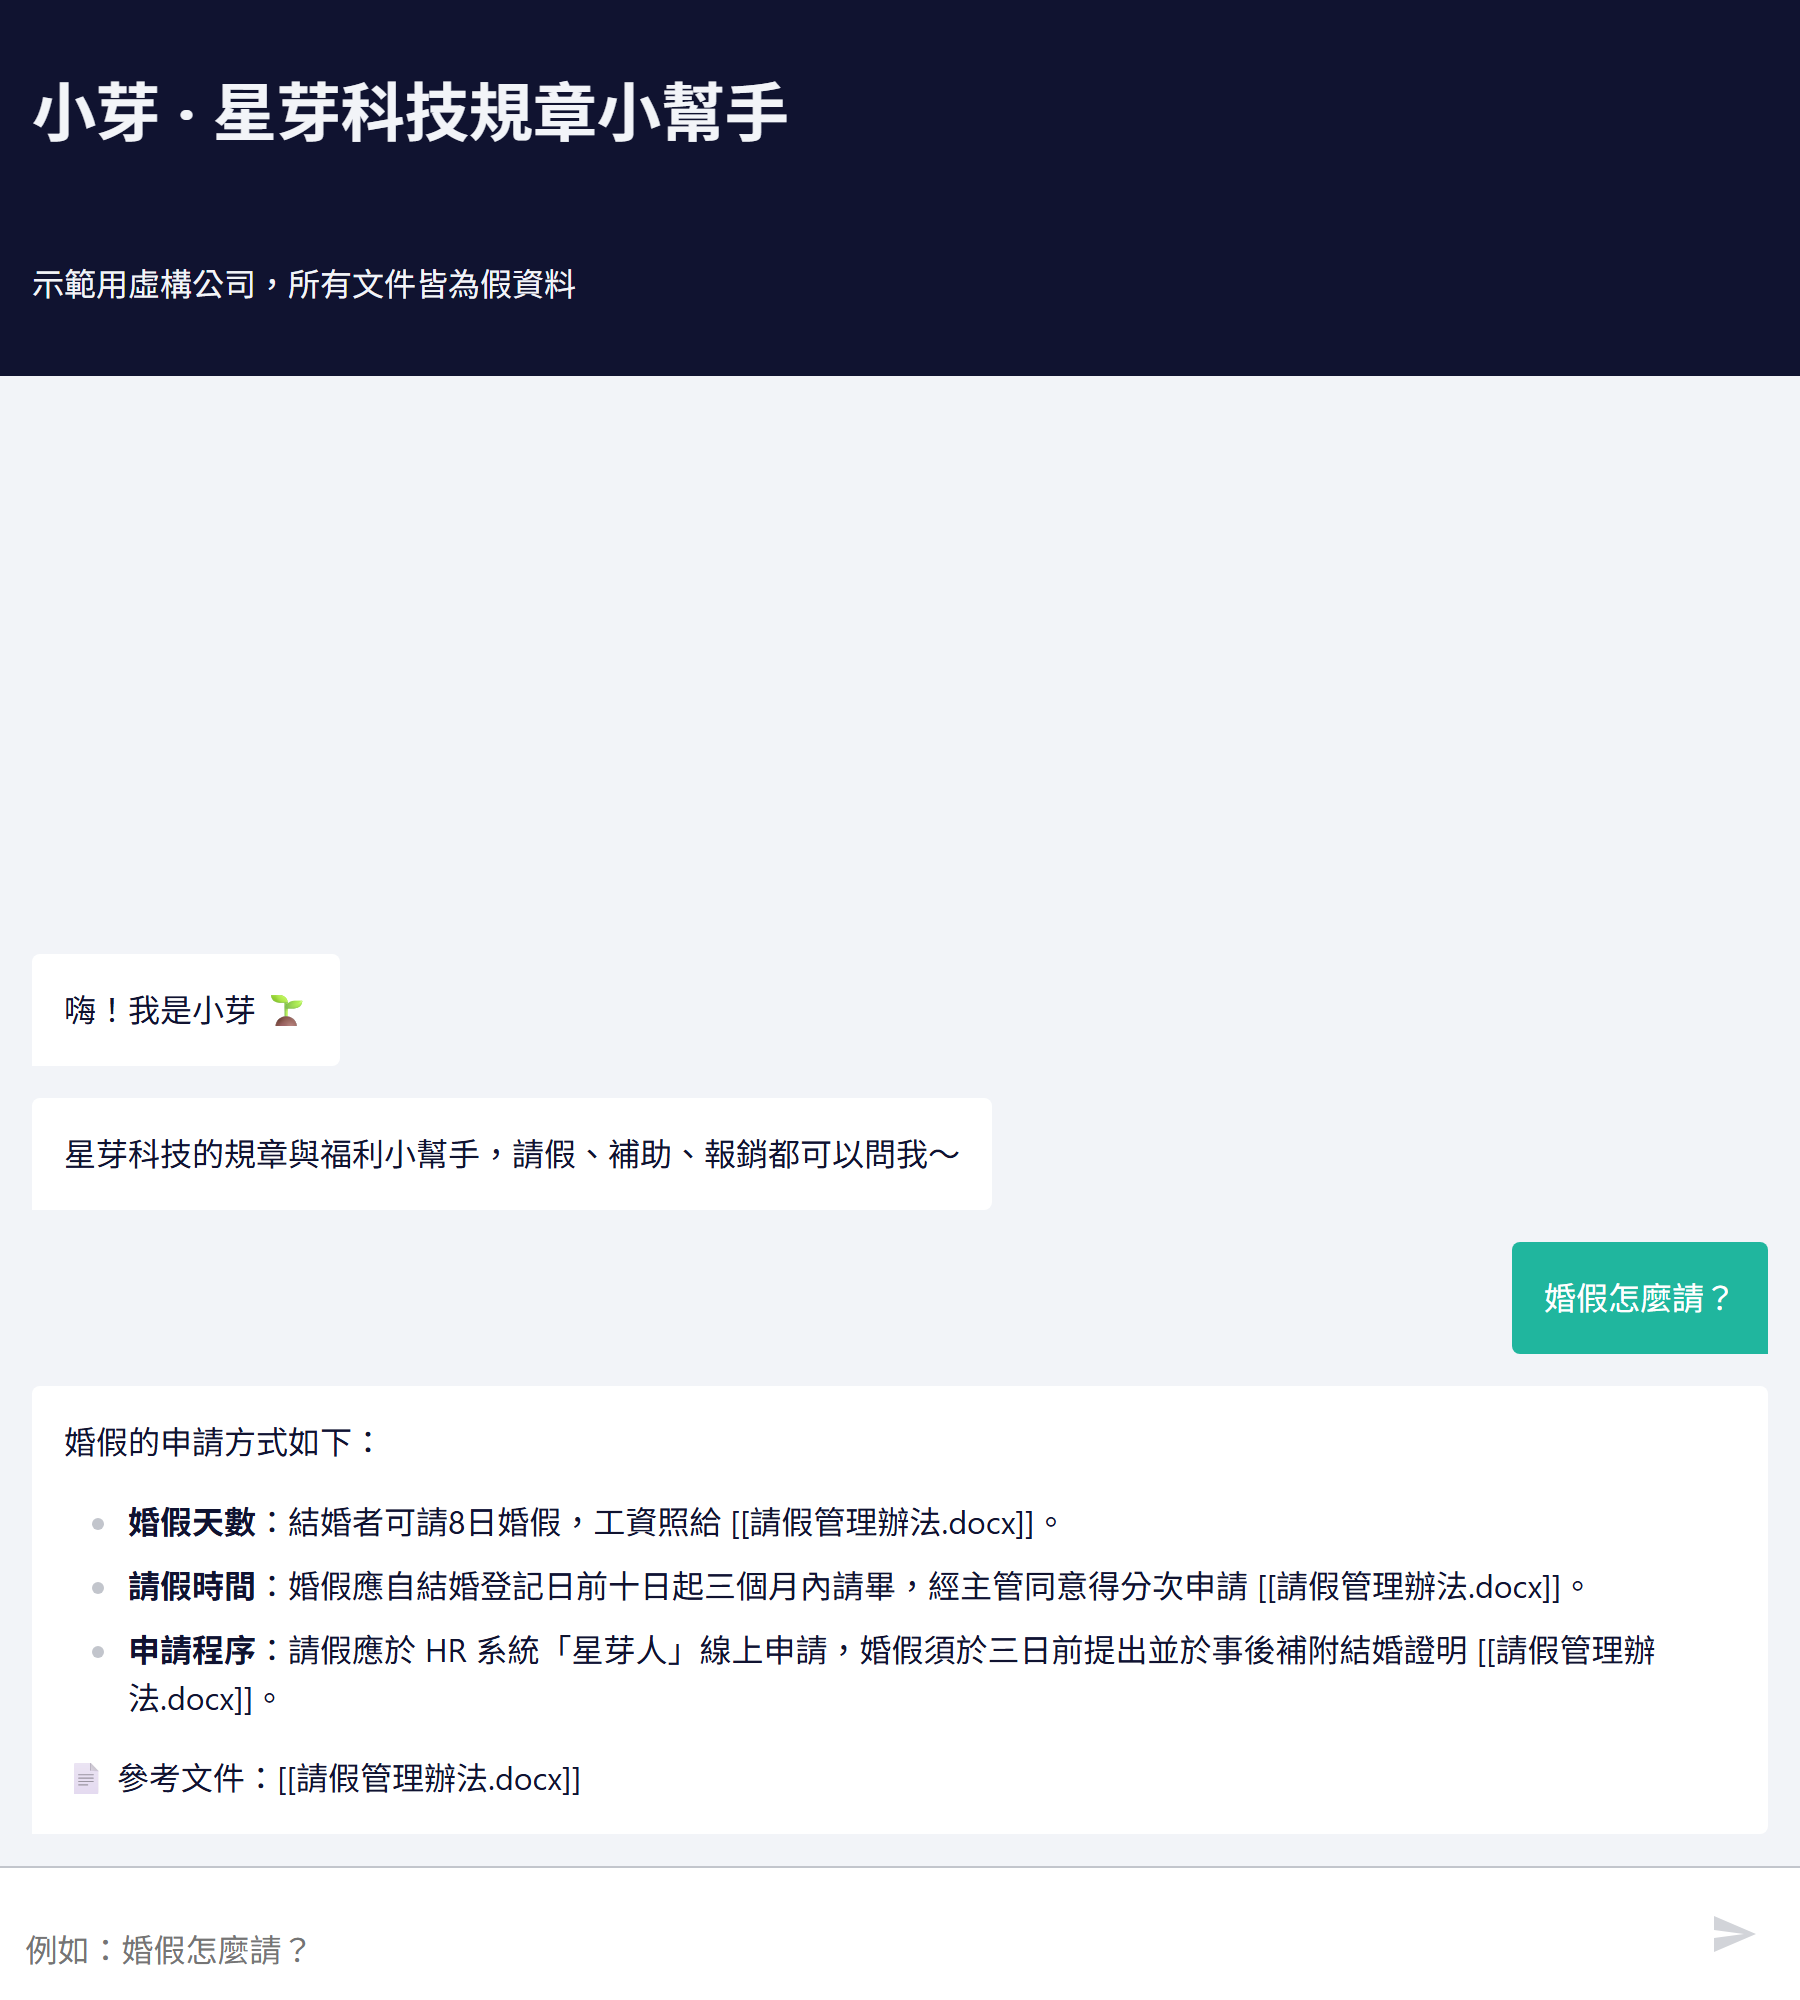
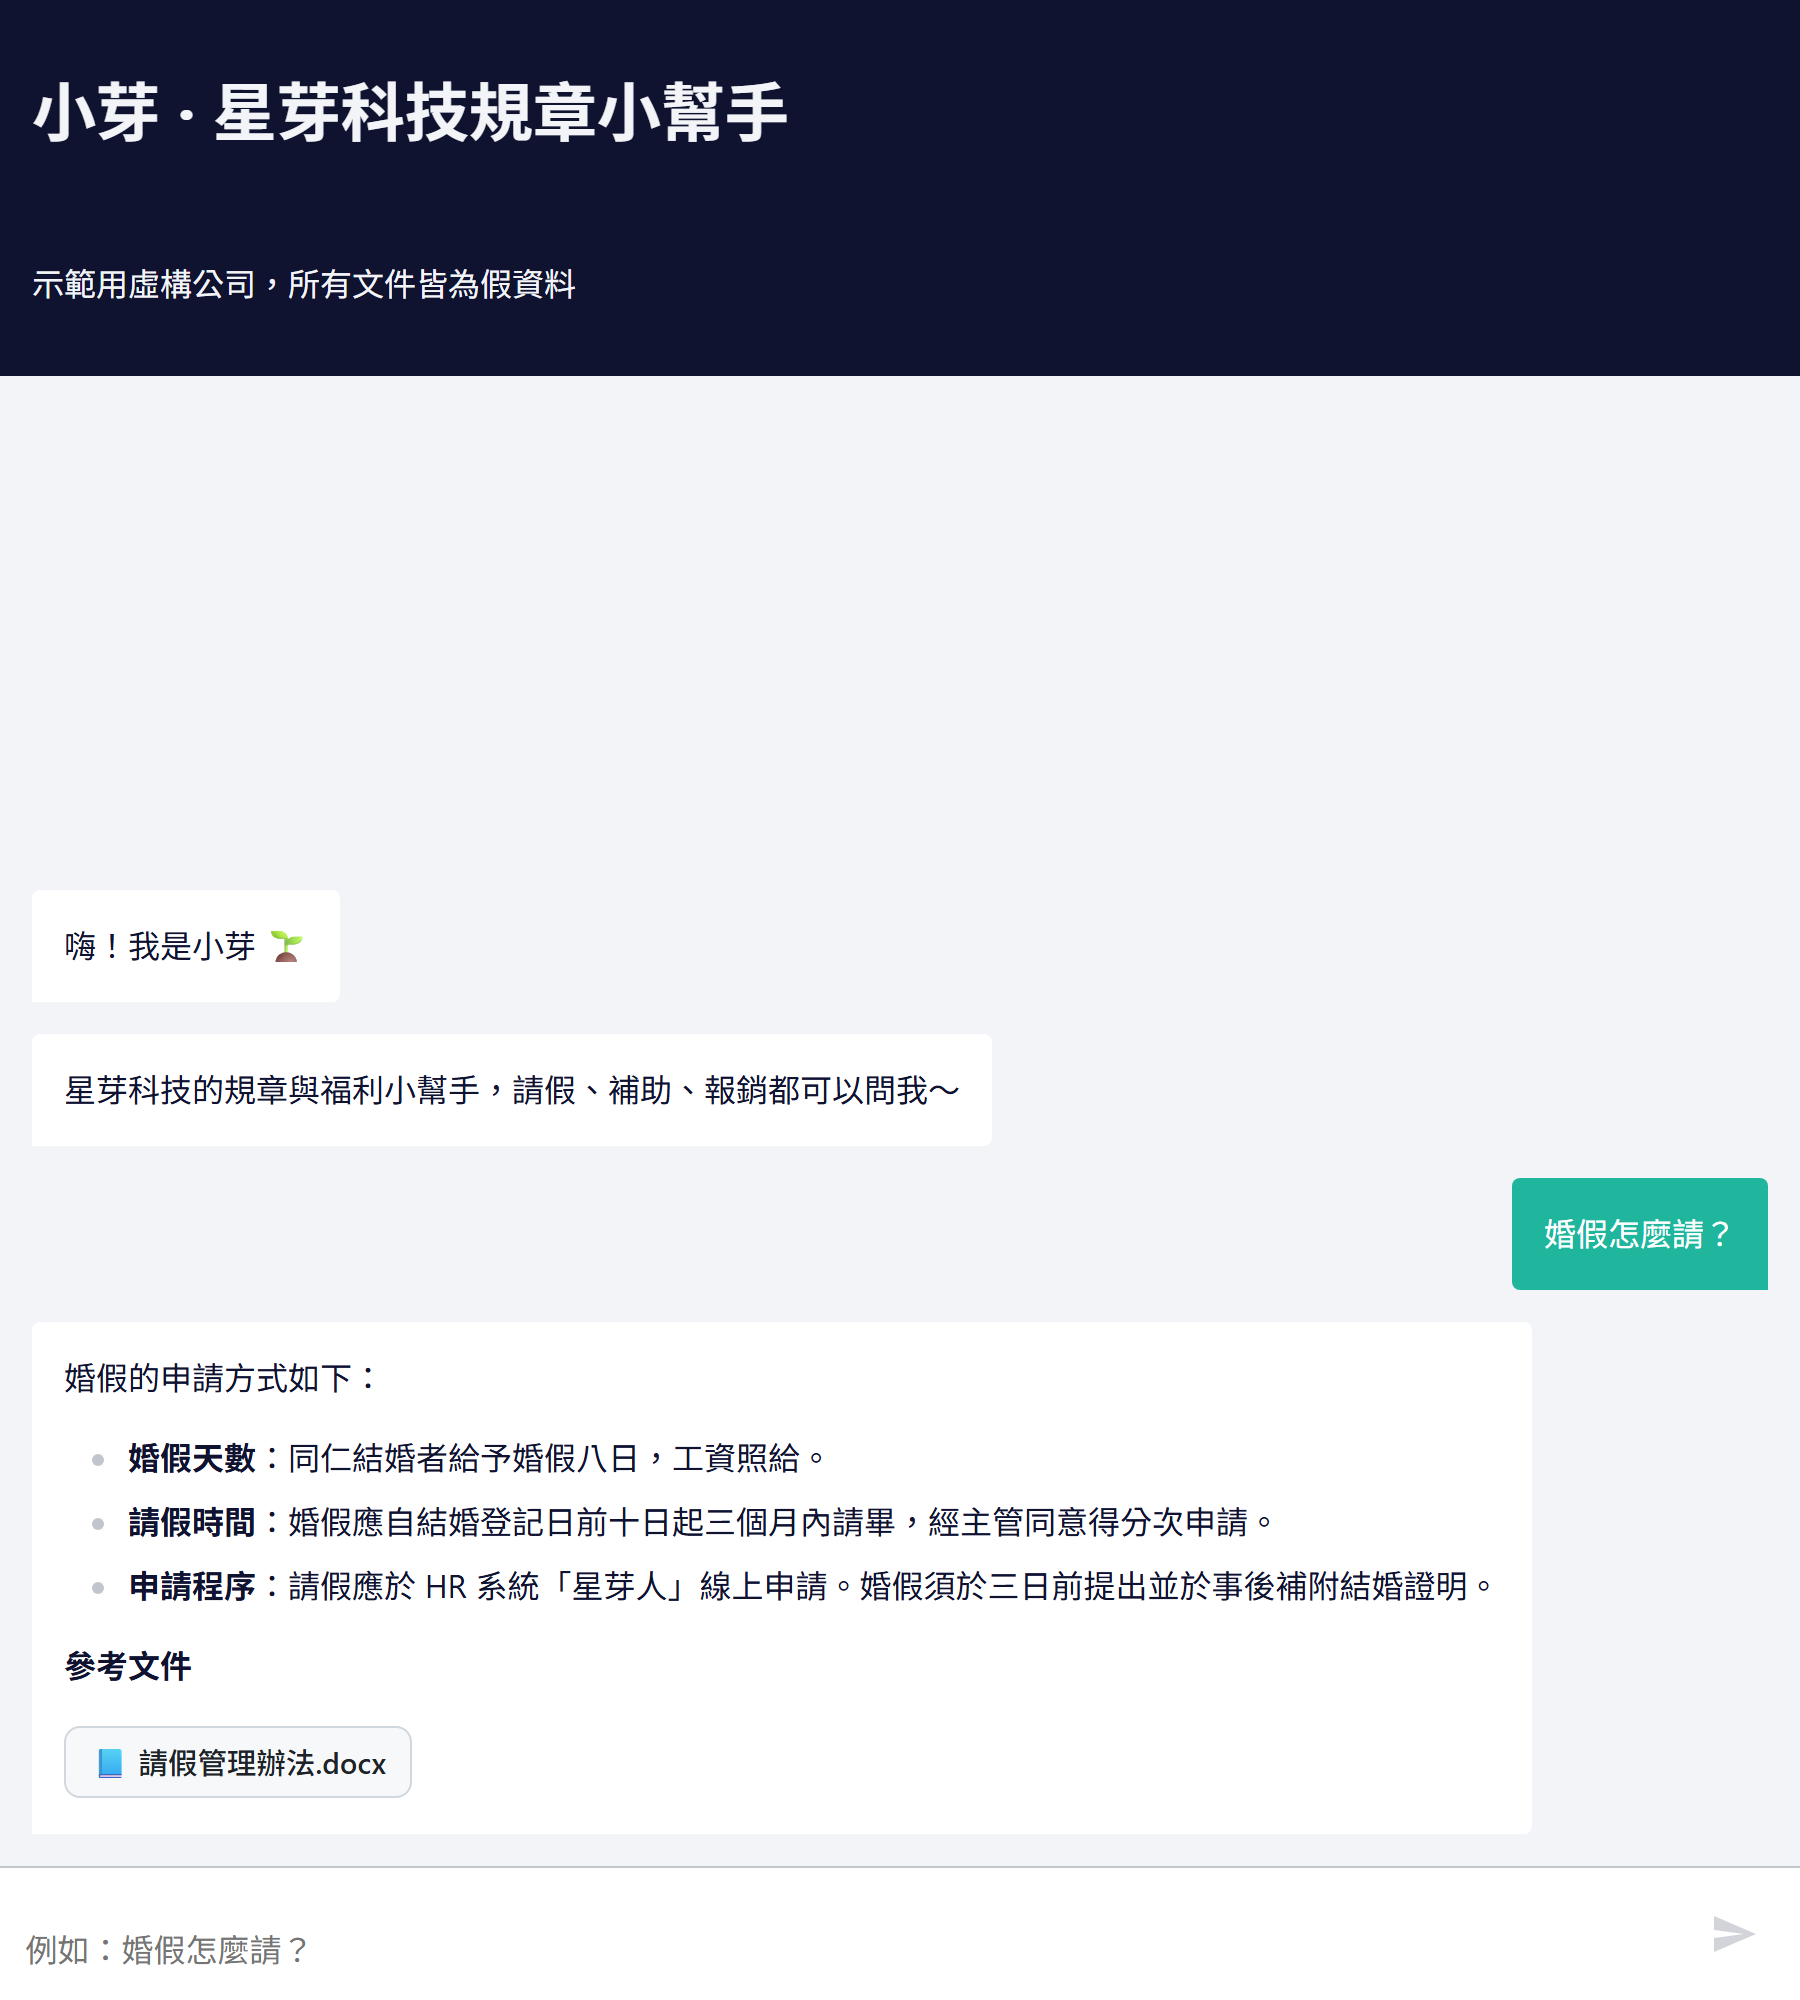
Citation cards in n8n chat (/docs route), before/after summary in README, n8n rerun scores

Changed region(s): [[0.0311, 0.682, 0.9333, 0.899], [0.0311, 0.465, 0.5289, 0.589], [0.84, 0.589, 0.9956, 0.682]]

diff --git a/scripts/n8n_build_workflow.py b/scripts/n8n_build_workflow.py
@@ -21,6 +21,15 @@ from n8n_admin import ROOT, WID, WEBHOOK, login, req  # noqa: E402
 
 PROMPT = (ROOT / "agent" / "system_prompt.md").read_text(encoding="utf-8")
 TRIGGER = "員工提問（Chat）"
+# 聊天頁在瀏覽器開，所以用 localhost（不是 docker 內部的 host.docker.internal）
+DOC_BASE = __import__("os").getenv("DOC_BASE", "http://localhost:8000")
+# 聊天視窗裡把參考文件連結畫成檔案卡片
+CHAT_CSS = """
+.chat-message-from-bot a[href*="/docs/"] { display:inline-flex; align-items:center; gap:6px; padding:6px 12px;
+  margin:2px 0; border:1px solid #d0d7de; border-radius:8px; background:#f6f8fa; color:#1f2328;
+  text-decoration:none; font-size:0.92em; }
+.chat-message-from-bot a[href*="/docs/"]:hover { background:#eaeef2; }
+"""
 THINK_NODE = __import__("os").getenv("THINK_NODE", "ollama")  # ollama | openai
 
 CHECK_JS = r"""
@@ -47,8 +56,20 @@ return [{ json: {
 
 FINAL_JS = r"""
 // 統一輸出給聊天視窗：驗算過就用驗算後的答案
+// 引用格式 [[檔名]] 是給評分和程式看的；給人看時換成可以點開的「參考文件」卡片
 const it = $input.first().json;
-return [{ json: { output: (it.output ?? it.draft ?? '').trim() } }];
+let text = (it.output ?? it.draft ?? '').trim();
+const files = [...new Set([...text.matchAll(/\[\[([^\]]+)\]\]/g)].map(m => m[1].trim()))];
+text = text
+  .replace(/^.*📄\s*參考文件[:：]?.*$/gm, '')      // 模型自己寫的參考文件行
+  .replace(/[（(]?\s*\[\[[^\]]+\]\]\s*[）)]?/g, '')  // 內文的 [[檔名]]
+  .replace(/\n{3,}/g, '\n\n').trim();
+const icon = f => /\.pdf$/i.test(f) ? '📕' : /\.xlsx?$/i.test(f) ? '📗' : '📘';
+if (files.length) {
+  text += '\n\n**參考文件**\n\n' + files.map(f =>
+    `[${icon(f)} ${f}](DOC_BASE_URL/docs/${encodeURIComponent(f)})`).join('\n\n');
+}
+return [{ json: { output: text, cited: files } }];
 """
 
 # 驗算 prompt 和 Python 版共用同一份檔案（改進循環選出的版本會複製到 agent/recheck_prompt.md）
@@ -103,7 +124,7 @@ def main() -> None:
          "parameters": {"public": True, "mode": "hostedChat",
                         "initialMessages": "嗨！我是小芽 🌱\n星芽科技的規章與福利小幫手，請假、補助、報銷都可以問我～",
                         "options": {"title": "小芽 · 星芽科技規章小幫手", "subtitle": "示範用虛構公司，所有文件皆為假資料",
-                                    "inputPlaceholder": "例如：婚假怎麼請？"}}},
+                                    "inputPlaceholder": "例如：婚假怎麼請？", "customCss": CHAT_CSS}}},
         {"id": str(uuid.uuid4()), "name": "小芽 AI Agent", "type": "@n8n/n8n-nodes-langchain.agent",
          "typeVersion": 3.1, "position": [260, 0],
          "parameters": {"promptType": "auto", "options": {"systemMessage": PROMPT, "maxIterations": 8,
@@ -128,7 +149,7 @@ def main() -> None:
         model("Qwen3-8B（思考）", [980, 140], think=True),
         mcp("policy_check", [1140, 140]),
         {"id": str(uuid.uuid4()), "name": "回覆", "type": "n8n-nodes-base.code", "typeVersion": code_v,
-         "position": [1320, 0], "parameters": {"jsCode": FINAL_JS.strip()}},
+         "position": [1320, 0], "parameters": {"jsCode": FINAL_JS.strip().replace("DOC_BASE_URL", DOC_BASE)}},
     ]
     main_ = lambda n: {"node": n, "type": "main", "index": 0}  # noqa: E731
     conns = {

diff --git a/src/policy_mcp/server.py b/src/policy_mcp/server.py
@@ -94,6 +94,19 @@ def calculate(expression: str) -> str:
     return _calculate(expression)
 
 
+@mcp.custom_route("/docs/{name}", methods=["GET"])
+async def open_doc(request):
+    """讓聊天視窗的「參考文件」卡片可以點開原始檔（只開放 DOCS_DIR 裡的檔案）。"""
+    from urllib.parse import unquote
+    from starlette.responses import FileResponse, PlainTextResponse
+    name = Path(unquote(request.path_params["name"])).name
+    path = cfg.docs_dir / name
+    if not path.is_file():
+        return PlainTextResponse("not found", status_code=404)
+    inline = path.suffix.lower() == ".pdf"
+    return FileResponse(path, filename=name, content_disposition_type="inline" if inline else "attachment")
+
+
 def _background_sync(interval: int) -> None:
     stop = threading.Event()
     while not stop.wait(interval):

diff --git a/eval/run_n8n_eval.py b/eval/run_n8n_eval.py
@@ -28,7 +28,9 @@ def grade(item: dict, ans: str) -> tuple[bool, str]:
     if item.get("not_found"):
         ok = bool(re.search(r"人資|財務", ans)) and bool(re.search(r"找不到|沒有.{0,4}提到|未提及|沒有相關|沒有.{0,4}規定|未.{0,2}明確|沒有.{0,2}明確", ans))
         return ok, "回答找不到" if ok else "應回答找不到"
-    cited = f"[[{item['expect_file']}]]" in ans
+    # n8n 回覆把 [[檔名]] 換成「參考文件」卡片連結（/docs/<檔名>），兩種都算
+    from urllib.parse import quote
+    cited = f"[[{item['expect_file']}]]" in ans or f"/docs/{quote(item['expect_file'])}" in ans
     norm = re.sub(r"\s", "", ans)
     content = any(all(k.replace(" ", "") in norm for k in g) for g in item["must_contain"])
     return cited and content, f"引用正確={cited} 內容正確={content}"

diff --git a/README.md b/README.md
@@ -4,7 +4,32 @@
 
 員工用自然語言問公司制度（請假、補助、報銷……），Agent **一定先查文件再回答**，每個數字都附出處；文件沒寫的不猜，跟公司無關的問題直接拒答。整套跑在本機：Ollama（Qwen3-8B + BGE-M3）、ChromaDB、n8n（Docker）。
 
-![對話示範](docs/screenshots/chat_3.png)
+![對話示範：婚假、年終計算](docs/screenshots/chat_2.png)
+
+回答裡的「參考文件」是可以點的檔案卡片，點下去直接開原始規章（MCP 伺服器的 `/docs/<檔名>`）。Agent 內部仍用 `[[檔名]]` 標出處（方便評分和程式檢查），n8n 最後的「回覆」節點才把它換成卡片。
+
+## 改善前後差異（一眼看懂）
+
+同一個模型（Qwen3-8B，本機），模型本身完全沒訓練，只改 prompt 和流程（harness）。
+
+| 指標 | 改善前（v0：手動調好的版本） | 改善後（v5：改進循環 4 輪） | 差異 |
+|---|---|---|---|
+| 調整組 38 題（改進時看得到錯題） | 25/32 ※ | 36/38 | 大幅進步，但這組有被「針對」過 |
+| 第 1 批隱藏組 17 題（沒看過錯題） | 14/17 | 16/17（v3a） | +2 題 |
+| 第 2 批隱藏組 17 題（全新題目） | 13/17 | 14/17 | +1 題，**在誤差範圍內** |
+| 平均回答時間 | 4.2～4.7 秒 | 6.4～7.5 秒 | 慢約 2～3 秒（涉及數字的題目才開思考驗算） |
+| 參考上限：全程思考 | | 17/17（第 1 批隱藏組） | 每題 19.5 秒，太慢不採用 |
+
+※ v0 是在調整組還只有 32 題時跑的。
+
+**有改善的**：多步計算（基準 × 倍數 × 月薪）、年資／年齡門檻判斷、口語稱謂對到條文（奶奶 → 祖父母）、採購／撥款類問題不再被誤判成無關而拒答。
+
+**沒改善或還有問題的**：
+- 名單外的對象（「叔叔過世可以請喪假嗎？」條文沒列叔叔）仍會被硬套成「可以」，改善前後都錯
+- 追問題只靠上一輪讀過的文件回答時，評分規則判錯（答案內容其實對）
+- v5 多了一個副作用：明顯無關的問題（規劃日本旅遊）會先查文件再說找不到，而不是直接拒答
+- 每次跑分同一題可能有 ±1 題的浮動，所以隱藏組 +1 題不能當作確定的進步
+
 
 ## 架構
 
@@ -28,6 +53,7 @@ flowchart LR
 | 文件會更新、會刪除 | 背景每小時比對修改時間：改過的重建索引、刪掉的移出索引；全文另外快取，重啟不必重建 |
 | LLM 憑常識亂答 | Prompt 規定「先查再答」、每句標 `[[檔名]]`、文件沒寫就請員工找人資、無關問題拒答 |
 | 追問時模型拿上一題的文件直接說「找不到」 | Prompt 要求每題重新查；Python 版 agent 另有 harness 檢查：沒查任何文件就下結論，會被退回去先查 |
+| 引用出處要讓人看得懂 | 模型輸出 `[[檔名]]`，n8n 回覆節點換成可點擊的檔案卡片（📘 Word／📕 PDF／📗 Excel），連到 MCP 伺服器的 `/docs/<檔名>` 開原檔（只開放規章資料夾裡的檔案） |
 | 格式多 | PDF（修正中文斷行）、Word、Excel（每列轉成「欄位：值」，切塊後仍看得懂） |
 
 ## Small-to-big 檢索怎麼做（`src/policy_mcp/indexer.py`、`server.py`）
@@ -200,7 +226,7 @@ flowchart LR
 
 `scripts/n8n_build_workflow.py` 直接讀 `agent/system_prompt.md` 和 `agent/recheck_prompt.md` 產生工作流，所以 Python 版選出來的 prompt 不用手動貼進 n8n。驗算檢查節點也跟 Python 版對齊（拒答不驗算、只把含 `[[檔名]]` 的文件內容交給驗算 Agent）。
 
-- n8n 版在 38 題調整組：**36/38**，平均 8.6 秒（`python eval/run_n8n_eval.py --questions eval/tune.yaml`）
+- n8n 版在 38 題調整組：**36/38、35/38**（兩次獨立跑，平均 8.6～9.0 秒；`python eval/run_n8n_eval.py --questions eval/tune.yaml`）。另有一次跟別的 GPU 工作同時跑，掉到 33/38：本機 8B 模型在負載下輸出會變，正式跑分要獨占 GPU
 - 錯的 2 題都是「應該說找不到」的題目，其中「尾牙」是因為 n8n 版沒有 v4b 的程式拒答檢查（只有 prompt）
 - n8n 的評分沒有檢查「有沒有讀全文」（拿不到 Python 版那麼細的工具紀錄），所以比 Python 版寬鬆一點
 
